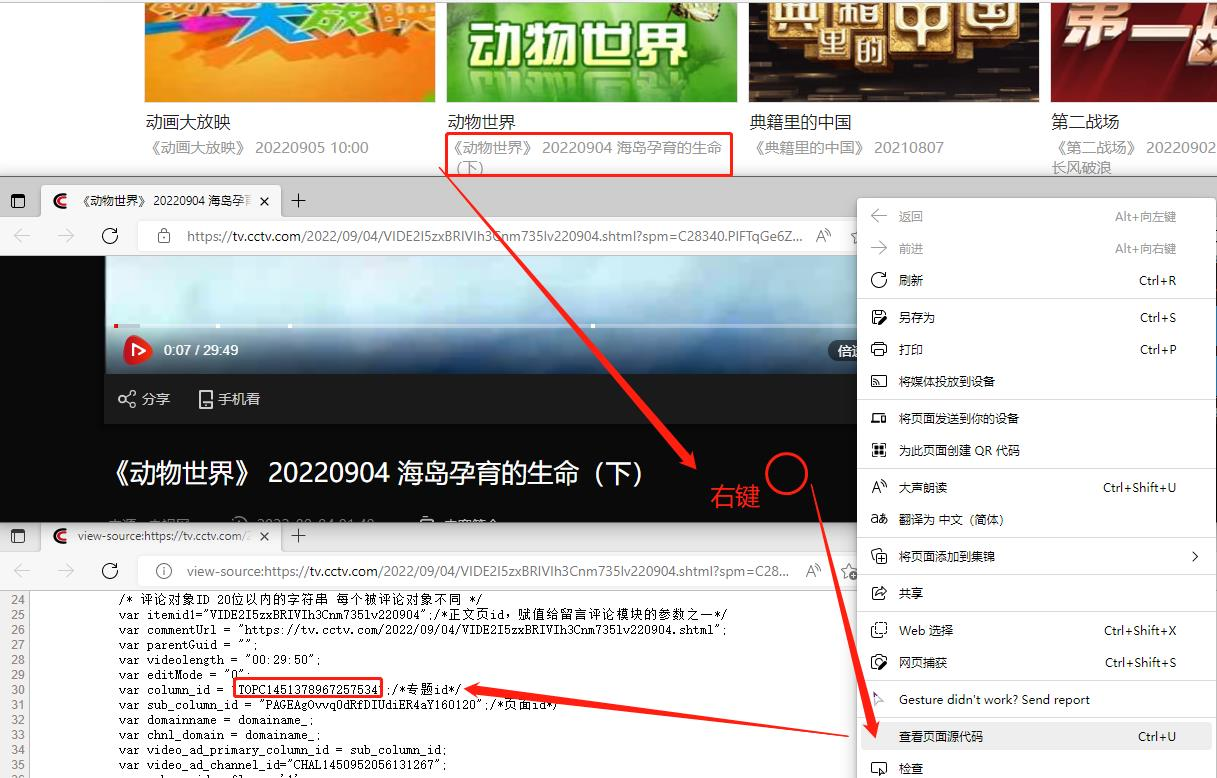
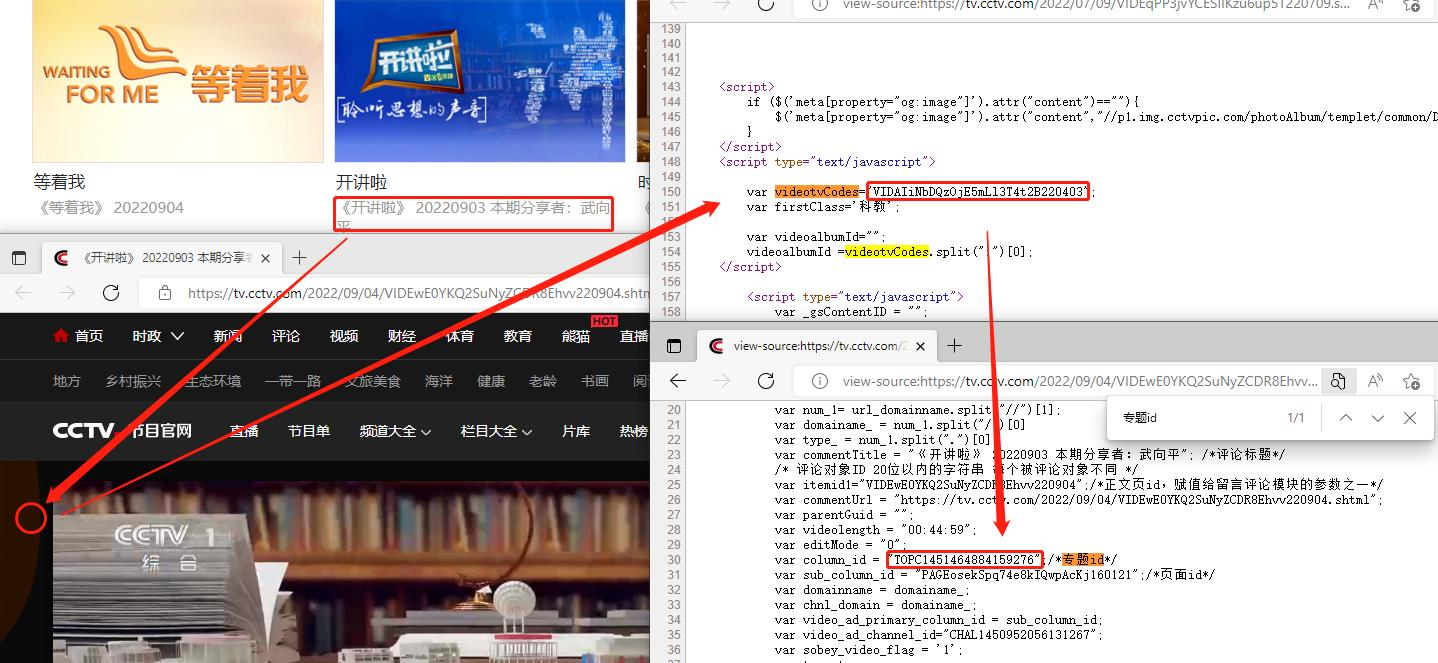
cctv bug fixed

diff --git a/plugin/py_cctv.py b/plugin/py_cctv.py
@@ -23,9 +23,8 @@ class Spider(Spider):  # 元类 默认的元类 type
 			"等着我": "TOPC1451378757637200",
 			"我爱发明": "TOPC1569314345479107",
 			"动物世界": "TOPC1451378967257534",
-			"探索发现": "TOPC1451557893544236",
-			"创新进行时": "TOPC1570875218228998",
-			"我爱发明2021": "TOPC1451557970755294"
+			"我爱发明2021": "TOPC1451557970755294",
+			"经典咏流传 第五季":"VIDAIiNbDQzOjE5mLl3T4t2B220403"
 		}
 		classes = []
 		for k in cateManual:
@@ -54,7 +53,8 @@ class Spider(Spider):  # 元类 默认的元类 type
 				params[idx] = '{0}={1}'.format(filterParams[idx],extend[fp])
 		suffix = '&'.join(params)
 		url = 'https://api.cntv.cn/NewVideo/getVideoListByColumn?{0}&n=20&sort=desc&mode=0&serviceId=tvcctv&t=json'.format(suffix)
-		print(url)
+		if not tid.startswith('TOPC'):
+			url = 'https://api.cntv.cn/NewVideo/getVideoListByAlbumIdNew?{0}&n=20&sort=desc&mode=0&serviceId=tvcctv&t=json'.format(suffix)
 		rsp = self.fetch(url,headers=self.header)
 		jo = json.loads(rsp.text)
 		vodList = jo['data']['list']

diff --git a/list.md b/list.md
@@ -33,7 +33,7 @@
 
 <div id="py_cctv" ></div>
 
-* py_cctv添加分类可以访问[央视栏目](https://tv.cctv.com/lm/index.shtml)找到对应的栏目，点击栏目最新一期的链接，然后再新打开的页面里右键查看源代码，在源代码页面搜索 **专题id**，即可找到对应栏目的ID，最后，将栏目ID和栏目名称添加到py_cctv分类字典中即可
+* py_cctv添加分类可以访问[央视栏目](https://tv.cctv.com/lm/index.shtml)找到对应的栏目，点击栏目最新一期的链接，然后再新打开的页面里右键查看源代码。在源代码页面搜索 **videotvCodes**，找到videotvCodes的值作为栏目ID，如果videotvCodes对应的值为空，则在源代码页面搜索 **专题id**，找到TOPC开头的值即为栏目ID，最后，将栏目ID和栏目名称添加到py_cctv分类字典中即可
 ![image](https://raw.githubusercontent.com/UndCover/PyramidStore/main/img/cctvtopic.jpg)
 
 
